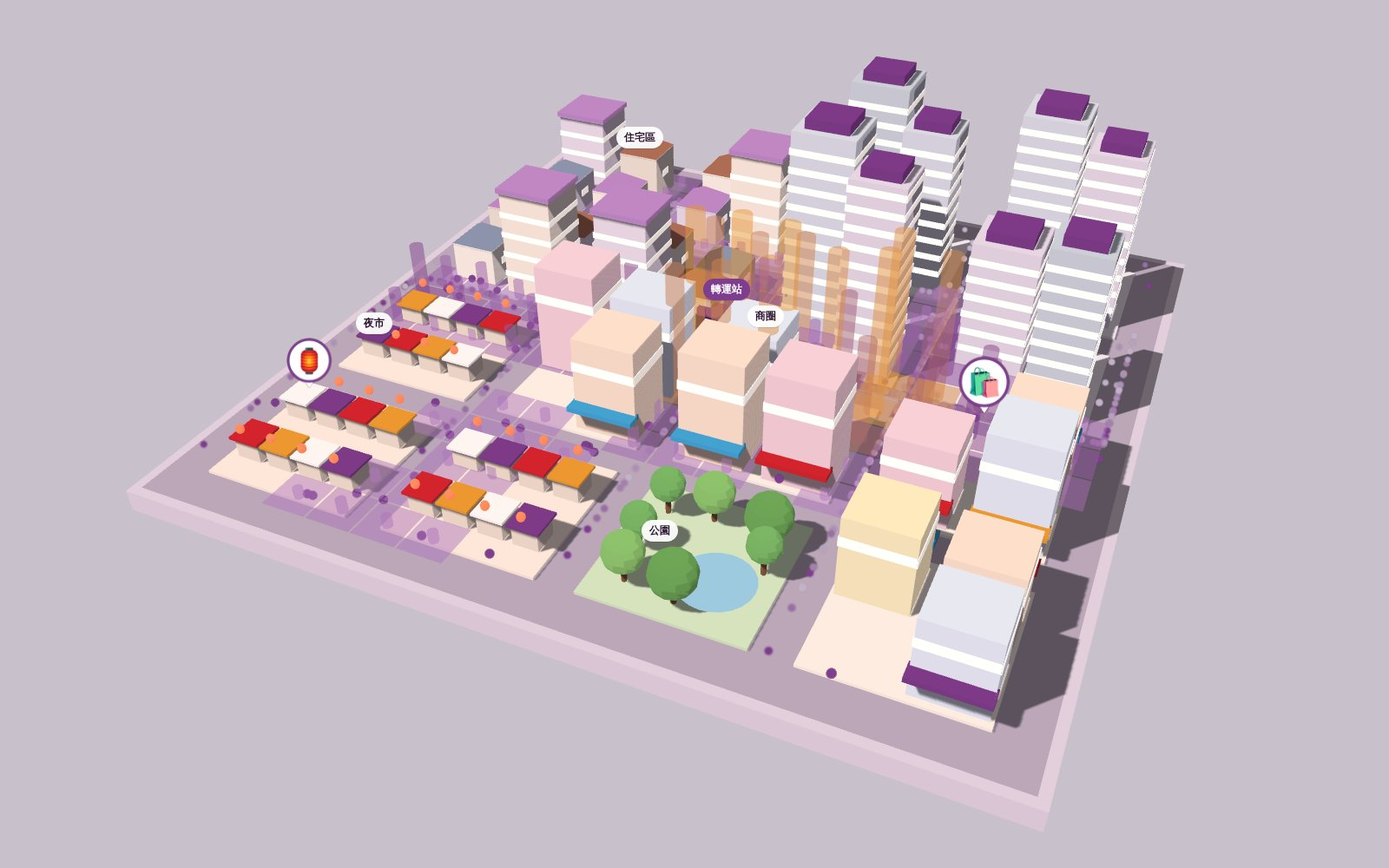
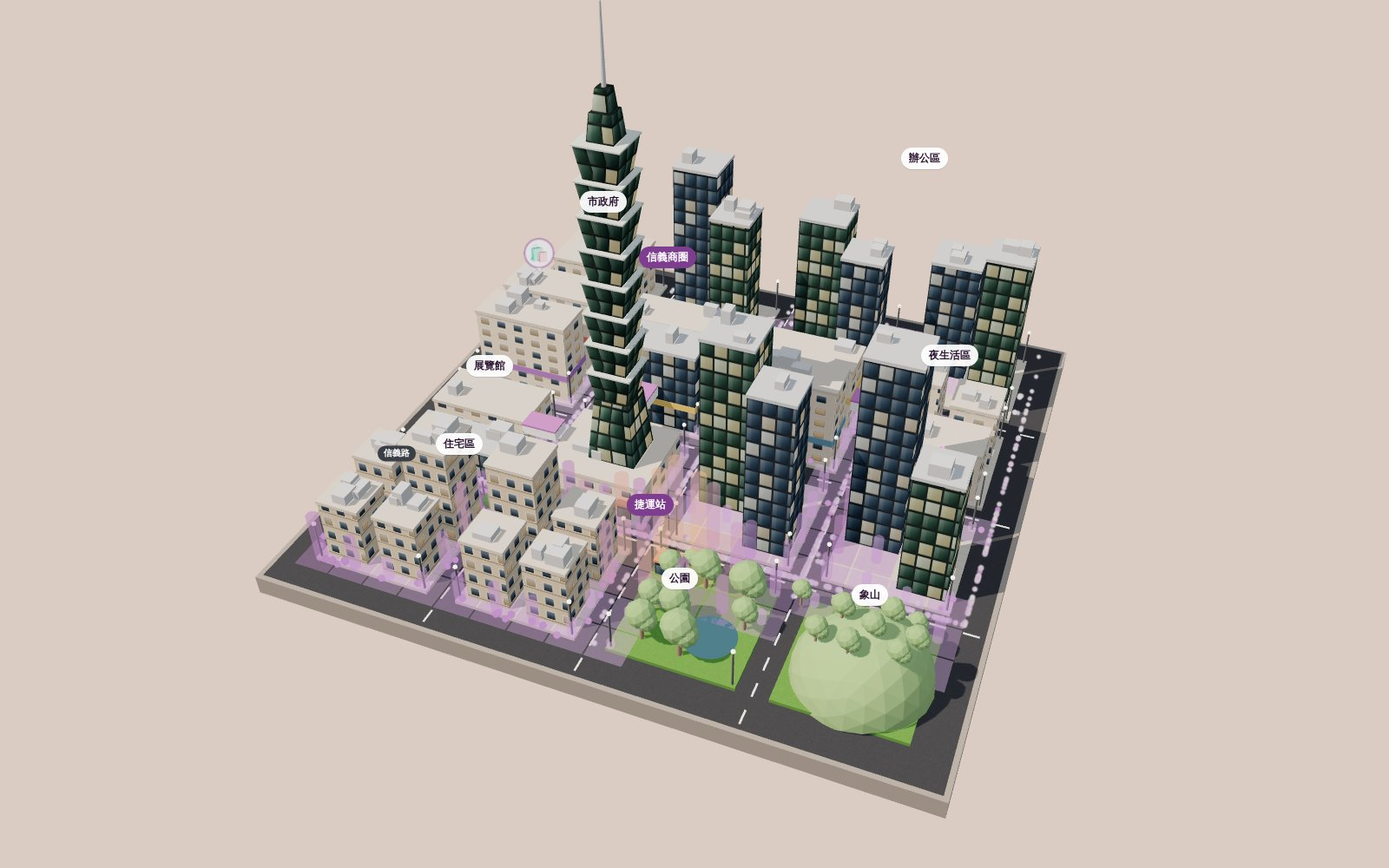
feat(ailocus): switch city demo to Xinyi illustrative version (#88)

diff --git a/ailocus-demo.html b/ailocus-demo.html
@@ -3,19 +3,19 @@
 <head>
 <meta charset="utf-8">
 <meta name="viewport" content="width=device-width, initial-scale=1, viewport-fit=cover">
-<title>AiLocus 位置大數據：城市的一天</title>
+<title>AiLocus 信義商圈的一天（示意圖）</title>
 <meta name="description" content="拖曳時間軸，看去識別化的人流如何在住宅區、辦公區、商圈與夜市之間移動；AiLocus 位置大數據的 3D 互動展示。">
 <link rel="canonical" href="https://iflocus.com/ailocus-demo.html">
-<meta property="og:title" content="AiLocus 位置大數據：城市的一天">
+<meta property="og:title" content="AiLocus 信義商圈的一天（示意圖）">
 <meta property="og:description" content="拖曳時間軸，看去識別化的人流如何在住宅區、辦公區、商圈與夜市之間移動；AiLocus 位置大數據的 3D 互動展示。">
 <meta property="og:image" content="https://iflocus.com/images/ailocus-demo-poster.jpg">
-<meta property="og:image:alt" content="AiLocus 城市人流 3D 互動展示：住宅區、辦公區、商圈與夜市的人流熱度">
+<meta property="og:image:alt" content="AiLocus 信義商圈 3D 互動示意圖：住宅區、辦公區、百貨街區與夜生活區的模擬人流">
 <meta property="og:url" content="https://iflocus.com/ailocus-demo.html">
 <meta property="og:type" content="website">
 <meta property="og:locale" content="zh_TW">
 <meta property="og:site_name" content="絡客思行銷科技">
 <meta name="twitter:card" content="summary_large_image">
-<meta name="twitter:title" content="AiLocus 位置大數據：城市的一天">
+<meta name="twitter:title" content="AiLocus 信義商圈的一天（示意圖）">
 <meta name="twitter:description" content="拖曳時間軸，看去識別化的人流如何在住宅區、辦公區、商圈與夜市之間移動；AiLocus 位置大數據的 3D 互動展示。">
 <meta name="twitter:image" content="https://iflocus.com/images/ailocus-demo-poster.jpg">
 <!-- Google tag (gtag.js) -->
@@ -94,7 +94,7 @@ body.embed #play{width:36px;height:36px}
 <div class="labels" id="labels"></div>
 <header class="top">
   <a class="btnlink back-btn" id="back" href="/ailocus.html" aria-label="返回 AiLocus 服務介紹">‹ 返回</a>
-  <div class="t"><h1>AiLocus 位置大數據：城市的一天</h1><p>時間 × 地點 × 人群，畫面為去識別化示意資料</p></div>
+  <div class="t"><h1>AiLocus 信義商圈的一天（示意圖）</h1><p>街區為風格化示意，人流為模擬資料，非真實統計</p></div>
   <div class="acts"><a class="btnlink" id="full" href="?" target="_top">全螢幕互動</a><button class="btnlink snd" id="sound" type="button" aria-pressed="false">開啟音效</button></div>
 </header>
 <div class="dock">
@@ -112,7 +112,7 @@ body.embed #play{width:36px;height:36px}
       <button class="chip" id="cHeat" type="button" aria-pressed="true">人流熱度</button>
       <button class="chip" id="cTrail" type="button" aria-pressed="true">移動軌跡</button>
       <button class="chip" id="cSeg" type="button" aria-pressed="false">受眾輪廓</button>
-      <span class="legend" id="legend"><span><i style="background:#7E3D8E"></i>上班族</span><span><i style="background:#1F8FFF"></i>學生</span><span><i style="background:#ED9E33"></i>家庭</span></span>
+      <span class="note">示意圖｜模擬資料，非真實統計</span><span class="legend" id="legend"><span><i style="background:#7E3D8E"></i>上班族</span><span><i style="background:#1F8FFF"></i>學生</span><span><i style="background:#ED9E33"></i>家庭</span></span>
     </div>
   </div>
 </div>
@@ -176,64 +176,116 @@ const toon=(c,o)=>new THREE.MeshToonMaterial(Object.assign({color:c,gradientMap:
 function mergeGeo(parts){const pos=[],nor=[];parts.forEach(([g,m])=>{const n=g.index?g.toNonIndexed():g.clone();n.applyMatrix4(m);n.computeVertexNormals();pos.push(...n.attributes.position.array);nor.push(...n.attributes.normal.array);});
   const b=new THREE.BufferGeometry();b.setAttribute('position',new THREE.Float32BufferAttribute(pos,3));b.setAttribute('normal',new THREE.Float32BufferAttribute(nor,3));return b;}
 
-const hemi=new THREE.HemisphereLight(0xfff6fb,0xd8c8df,0.55);scene.add(hemi);
-const sun=new THREE.DirectionalLight(0xfff4e8,0.6);sun.position.set(-14,26,16);sun.castShadow=true;sun.shadow.mapSize.set(1536,1536);
+const hemi=new THREE.HemisphereLight(0xdfeaf7,0x6b6258,0.6);scene.add(hemi);
+const sun=new THREE.DirectionalLight(0xfff1dc,1.2);sun.position.set(-16,24,12);sun.castShadow=true;sun.shadow.mapSize.set(2048,2048);sun.shadow.radius=3;
 Object.assign(sun.shadow.camera,{left:-17,right:17,top:17,bottom:-17,near:1,far:80});sun.shadow.bias=-0.0006;scene.add(sun);
 
-/* ---------- city ---------- */
-const buckets={};const winParts=[],lanternParts=[];
-const M4=(x,y,z,ry,sx,sy,sz)=>new THREE.Matrix4().compose(new THREE.Vector3(x,y,z),new THREE.Quaternion().setFromEuler(new THREE.Euler(0,ry||0,0)),new THREE.Vector3(sx||1,sy||1,sz||1));
-function add(geo,m,c){(buckets[c]=buckets[c]||[]).push([geo,m]);}
-const BOX=new THREE.BoxGeometry(1,1,1),ROOF=new THREE.ConeGeometry(0.72,0.6,4),SPH=new THREE.SphereGeometry(0.5,12,10),CYL=new THREE.CylinderGeometry(0.5,0.5,1,10);
-function box(w,h,d,x,y,z,c){add(BOX,M4(x,y+h/2,z,0,w,h,d),c);}
-const W=4.8;
-const ZMAP=[['res','res','off','off'],['res','res','off','off'],['nm','com','com','com'],['nm','nm','park','com']];
-const BC=[-9,-3,3,9];const blocks=[];
-const BASE={res:0xFBF7FC,off:0xF3F0F8,com:0xFFF7EE,nm:0xFFF1E6,park:0xD7EDC9};
-/* base slab & roads */
-const slab=new THREE.Mesh(new THREE.BoxGeometry(26,0.7,26),toon(0xE3D8E8));slab.position.y=-0.35;slab.receiveShadow=true;scene.add(slab);
-const road=new THREE.Mesh(new THREE.PlaneGeometry(25.4,25.4),toon(0xD6CADD));road.rotation.x=-Math.PI/2;road.position.y=0.005;road.receiveShadow=true;scene.add(road);
+/* ---------- realistic city ---------- */
+renderer.outputEncoding=THREE.sRGBEncoding;renderer.toneMapping=THREE.ACESFilmicToneMapping;renderer.toneMappingExposure=1.0;
+function cvs(w,h,draw,srgb){const c=document.createElement('canvas');c.width=w;c.height=h;draw(c.getContext('2d'),w,h);const t=new THREE.CanvasTexture(c);
+  t.wrapS=t.wrapT=THREE.RepeatWrapping;t.anisotropy=renderer.capabilities.getMaxAnisotropy?Math.min(8,renderer.capabilities.getMaxAnisotropy()):4;if(srgb!==false)t.encoding=THREE.sRGBEncoding;return t;}
+function grain(x,w,h,n,a){for(let i=0;i<n;i++){const v=Math.random();x.fillStyle=v>.5?`rgba(255,255,255,${a*Math.random()})`:`rgba(0,0,0,${a*Math.random()})`;x.fillRect(Math.random()*w,Math.random()*h,1+Math.random()*2.5,1+Math.random()*2.5);}}
+/* facade tile = cols x rows windows; returns colour map + night emissive map */
+function facade(kind){const cols=kind==='glass'||kind==='glass2'?4:kind==='res'?3:3,rows=kind==='res'?3:4;const W=256,H=256;const lit=[];
+  for(let i=0;i<cols*rows;i++)lit.push(Math.random()<(kind==='res'?0.55:0.42));
+  const map=cvs(W,H,(x)=>{
+    if(kind.startsWith('glass')){x.fillStyle=kind==='glass'?'#56616d':'#4d5d58';x.fillRect(0,0,W,H);
+      for(let r=0;r<rows;r++)for(let c=0;c<cols;c++){const px=c*W/cols+4,py=r*H/rows+5,pw=W/cols-8,ph=H/rows-10;
+        const g=x.createLinearGradient(px,py,px+pw,py+ph);g.addColorStop(0,kind==='glass'?'#a9c6dd':'#a8cfc4');g.addColorStop(0.55,kind==='glass'?'#5f7f9a':'#5c8579');g.addColorStop(1,kind==='glass'?'#3a5068':'#35574d');
+        x.fillStyle=g;x.fillRect(px,py,pw,ph);x.fillStyle='rgba(255,255,255,.12)';x.fillRect(px,py,pw*0.35,ph);}
+      x.fillStyle='rgba(0,0,0,.25)';for(let r=0;r<rows;r++)x.fillRect(0,r*H/rows,W,3);}
+    else{x.fillStyle=kind==='res'?'#d9cbb6':'#e8dccd';x.fillRect(0,0,W,H);grain(x,W,H,2200,0.08);
+      for(let r=0;r<rows;r++){for(let c=0;c<cols;c++){const pw=W/cols*0.5,ph=H/rows*0.52,px=c*W/cols+(W/cols-pw)/2,py=r*H/rows+H/rows*0.2;
+        x.fillStyle='#f4efe7';x.fillRect(px-4,py-4,pw+8,ph+8);const g=x.createLinearGradient(px,py,px,py+ph);g.addColorStop(0,'#7d93a6');g.addColorStop(1,'#2f3a45');x.fillStyle=g;x.fillRect(px,py,pw,ph);}
+        if(kind==='res'){x.fillStyle='rgba(90,80,70,.55)';x.fillRect(0,r*H/rows+H/rows*0.8,W,5);}}}
+  });
+  const em=cvs(W,H,(x)=>{x.fillStyle='#000';x.fillRect(0,0,W,H);let k=0;
+    for(let r=0;r<rows;r++)for(let c=0;c<cols;c++){const on=lit[k++];if(!on)continue;
+      if(kind.startsWith('glass')){x.fillStyle=Math.random()<.5?'#ffe2b0':'#fff4dc';x.fillRect(c*W/cols+4,r*H/rows+5,W/cols-8,H/rows-10);}
+      else{const pw=W/cols*0.5,ph=H/rows*0.52;x.fillStyle='#ffcf8a';x.fillRect(c*W/cols+(W/cols-pw)/2,r*H/rows+H/rows*0.2,pw,ph);}}});
+  return {map,em};}
+const FAC={glass:facade('glass'),glass2:facade('glass2'),res:facade('res'),com:facade('com')};
+const facMats={};Object.entries(FAC).forEach(([k,v])=>{facMats[k]=new THREE.MeshStandardMaterial({map:v.map,emissiveMap:v.em,emissive:new THREE.Color(0xffffff),emissiveIntensity:0,
+  roughness:k.startsWith('glass')?0.22:0.85,metalness:k.startsWith('glass')?0.55:0.05,envMapIntensity:1});});
+const TILE={glass:[2.2,2.6],glass2:[2.2,2.6],res:[2.0,2.1],com:[2.4,2.4]};
+function bgeo(w,h,d,x,y,z,kind){const g=new THREE.BoxGeometry(w,h,d);const uv=g.attributes.uv;const [tw,th]=TILE[kind];
+  for(let f=0;f<6;f++){const su=f===2||f===3?0.001:(f<2?d:w)/tw,sv=f===2||f===3?0.001:h/th;for(let v=f*4;v<f*4+4;v++)uv.setXY(v,uv.getX(v)*su,uv.getY(v)*sv);}
+  g.translate(x,y+h/2,z);return g;}
+function mergeUV(geos){const pos=[],nor=[],uvs=[];geos.forEach(g=>{const n=g.index?g.toNonIndexed():g;pos.push(...n.attributes.position.array);nor.push(...n.attributes.normal.array);
+  if(n.attributes.uv)uvs.push(...n.attributes.uv.array);else for(let i=0;i<n.attributes.position.count;i++)uvs.push(0,0);});
+  const b=new THREE.BufferGeometry();b.setAttribute('position',new THREE.Float32BufferAttribute(pos,3));b.setAttribute('normal',new THREE.Float32BufferAttribute(nor,3));b.setAttribute('uv',new THREE.Float32BufferAttribute(uvs,2));return b;}
+let TOWER_TOP=20;const facGeos={glass:[],glass2:[],res:[],com:[]};const plain={};const addPlain=(g,c)=>(plain[c]=plain[c]||[]).push(g);
+const pbox=(w,h,d,x,y,z,c)=>{const g=new THREE.BoxGeometry(w,h,d);g.translate(x,y+h/2,z);addPlain(g,c);};
+function building(w,h,d,x,z,kind,base){facGeos[kind].push(bgeo(w,h,d,x,base||0.15,z,kind));
+  pbox(w+0.08,0.14,d+0.08,x,(base||0.15)+h,z,kind.startsWith('glass')?0x8a9199:0xa79a8a);
+  const n=1+Math.floor(rnd()*3);for(let i=0;i<n;i++)pbox(0.3+rnd()*0.5,0.25+rnd()*0.35,0.3+rnd()*0.5,x+(rnd()-.5)*(w-0.8),(base||0.15)+h+0.14,z+(rnd()-.5)*(d-0.8),0x9aa0a6);}
+/* ground textures */
+const asphaltTex=cvs(512,512,(x,w,h)=>{x.fillStyle='#4a4d52';x.fillRect(0,0,w,h);grain(x,w,h,9000,0.12);});asphaltTex.repeat.set(10,10);
+const concreteTex=cvs(256,256,(x,w,h)=>{x.fillStyle='#c9c4bb';x.fillRect(0,0,w,h);grain(x,w,h,3000,0.08);x.strokeStyle='rgba(0,0,0,.12)';x.lineWidth=2;for(let i=0;i<=4;i++){x.beginPath();x.moveTo(i*64,0);x.lineTo(i*64,h);x.stroke();x.beginPath();x.moveTo(0,i*64);x.lineTo(w,i*64);x.stroke();}});concreteTex.repeat.set(3,3);
+const grassTex=cvs(256,256,(x,w,h)=>{x.fillStyle='#6d9a4f';x.fillRect(0,0,w,h);for(let i=0;i<6000;i++){x.fillStyle=`hsla(${85+Math.random()*25},${35+Math.random()*25}%,${30+Math.random()*25}%,.6)`;x.fillRect(Math.random()*w,Math.random()*h,1,2+Math.random()*3);}});grassTex.repeat.set(3,3);
+const slab=new THREE.Mesh(new THREE.BoxGeometry(26,0.8,26),new THREE.MeshStandardMaterial({color:0x5e5750,roughness:1}));slab.position.y=-0.4;slab.receiveShadow=true;scene.add(slab);
+const road=new THREE.Mesh(new THREE.PlaneGeometry(25.6,25.6),new THREE.MeshStandardMaterial({map:asphaltTex,roughness:0.95}));road.rotation.x=-Math.PI/2;road.position.y=0.005;road.receiveShadow=true;scene.add(road);
 const roadMat=road.material;
+const lineMat=new THREE.MeshStandardMaterial({color:0xf2efe6,roughness:0.8});const dash=[];
+[-6,0,6].forEach(c=>{for(let k=-12;k<12;k+=1.2){dash.push(Object.assign(new THREE.BoxGeometry(0.08,0.02,0.6).translate(c,0.02,k+0.3)));dash.push(new THREE.BoxGeometry(0.6,0.02,0.08).translate(k+0.3,0.02,c));}});
+scene.add(new THREE.Mesh(mergeUV(dash),lineMat));
+const W=4.8;
+/* stylised Xinyi district (illustrative, not to scale) */
+const ZMAP=[['civ','off','off','off'],['com','com','com','nm'],['exh','t101','off','off'],['res','res','park','hill']];
+const BC=[-9,-3,3,9];const blocks=[];
+const walkMat=new THREE.MeshStandardMaterial({map:concreteTex,roughness:0.9});const grassMat=new THREE.MeshStandardMaterial({map:grassTex,roughness:1});
+const lampGeos=[],trunkGeos=[],leafGeos=[],stallGeos={},lanternGeos=[];
+function tree(x,z,s3,y0){trunkGeos.push(new THREE.CylinderGeometry(0.06*s3,0.09*s3,0.9*s3,6).translate(x,(y0||0.15)+0.45*s3,z));
+  [[0,1.05,0,.55],[.25,.9,.1,.4],[-.22,.95,-.1,.42]].forEach(([a,b2,c2,rr])=>leafGeos.push(new THREE.IcosahedronGeometry(rr*s3,1).translate(x+a*s3,(y0||0.15)+b2*s3+0.2,z+c2*s3)));}
+function frustumGeo(rt,rb,h,y,cx,cz,kind){const g=new THREE.CylinderGeometry(rt,rb,h,4,1);g.rotateY(Math.PI/4);const uv=g.attributes.uv;const [tw,th]=TILE[kind];
+  const side=(rt+rb)/2*1.414;const n=uv.count;const sideVerts=(4+1)*2;for(let i=0;i<n;i++){if(i<sideVerts)uv.setXY(i,uv.getX(i)*4*side/tw,uv.getY(i)*h/th);else uv.setXY(i,0,0);}
+  g.translate(cx,y+h/2,cz);return g;}
+function tower101(cx,cz,base){let y=base;facGeos.glass2.push(frustumGeo(1.02,1.4,2.8,y,cx,cz,'glass2'));y+=2.8;
+  for(let i=0;i<8;i++){facGeos.glass2.push(frustumGeo(1.22,0.92,1.3,y,cx,cz,'glass2'));pbox(1.8,0.06,1.8,cx,y+1.27,cz,0x9aa6a0);y+=1.33;}
+  facGeos.glass2.push(frustumGeo(0.58,0.72,1.0,y,cx,cz,'glass2'));y+=1.0;facGeos.glass2.push(frustumGeo(0.34,0.46,0.8,y,cx,cz,'glass2'));y+=0.8;
+  const sp=new THREE.CylinderGeometry(0.035,0.09,2.8,8);sp.translate(cx,y+1.4,cz);addPlain(sp,0x8f9aa3);return y+2.8;}
 for(let r=0;r<4;r++)for(let c=0;c<4;c++){
   const type=ZMAP[r][c],x=BC[c],z=BC[r];blocks.push({type,x,z});
-  box(W,0.1,W,x,0,z,BASE[type]);
-  if(type==='res'){
-    [[-1.2,-1.2],[1.2,-1.2],[-1.2,1.2],[1.2,1.2]].forEach(([dx,dz],i)=>{
-      if((r+c+i)%4===0){const h=3+rnd()*1.2;box(1.9,h,1.9,x+dx,0.1,z+dz,[0xF1E6F4,0xFFF4E8][i%2]);
-        for(let k=0.8;k<h-0.2;k+=0.75)winParts.push([BOX,M4(x+dx,0.1+k,z+dz,0,1.96,0.2,1.96)]);
-        box(2.05,0.18,2.05,x+dx,0.1+h,z+dz,0xC18DCE);}
-      else{const h=1.1+rnd()*0.8;box(1.6,h,1.6,x+dx,0.1,z+dz,[0xFFF8F0,0xF4E9DD,0xEDE3F2][(i+r)%3]);
-        add(ROOF,M4(x+dx,0.1+h+0.3,z+dz,Math.PI/4,1.6,1,1.6),[0xC18DCE,0xB0725A,0x8E9BB5][(i+c)%3]);
-        winParts.push([BOX,M4(x+dx,0.1+h*0.55,z+dz,0,1.66,0.26,0.5)]);}
-    });
-  }else if(type==='off'){
-    [[-1.1,-0.9,2.1],[1.2,1.0,1.8]].forEach(([dx,dz,s],i)=>{const h=4+rnd()*3.2;
-      box(s,h,s,x+dx,0.1,z+dz,[0xDDE3EE,0xE8E0F0,0xCFD8E3][(r+c+i)%3]);
-      for(let k=0.7;k<h-0.3;k+=0.62)winParts.push([BOX,M4(x+dx,0.1+k,z+dz,0,s+0.06,0.22,s+0.06)]);
-      box(s*0.7,0.35,s*0.7,x+dx,0.1+h,z+dz,0x7E3D8E);});
-  }else if(type==='com'){
-    [[-1.3,-1.2],[1.3,-1.2],[-1.3,1.25],[1.3,1.25]].forEach(([dx,dz],i)=>{if((r*3+c+i)%5===4)return;const h=2+rnd()*1.8;
-      box(2,h,1.9,x+dx,0.1,z+dz,[0xFFE9D6,0xF9D9E3,0xE9F2FF,0xFFF4C9][(i+c)%4]);
-      box(2.1,0.16,0.55,x+dx,0.95,z+dz+(dz>0?1.1:-1.1),[0xED9E33,0x7E3D8E,0x44A9DE,0xD4252F][(i+r+c)%4]);
-      winParts.push([BOX,M4(x+dx,0.1+h*0.7,z+dz,0,2.05,0.3,1.95)]);});
-  }else if(type==='nm'){
-    for(let row=-1;row<=1;row+=2)for(let k=0;k<4;k++){const sx=x-1.65+k*1.1,sz=z+row*1.1;
-      box(0.8,0.55,0.8,sx,0.1,sz,0xF4E6D6);box(1.0,0.08,1.0,sx,0.75,sz,[0xD4252F,0xED9E33,0xFFFFFF,0x7E3D8E][(k+row+r)%4]);
-      lanternParts.push([SPH,M4(sx,1.25,sz+row*0.45,0,0.26,0.3,0.26)]);}
-  }else if(type==='park'){
-    const pond=new THREE.Mesh(new THREE.CircleGeometry(1.1,24),toon(0x9FD3EE));pond.rotation.x=-Math.PI/2;pond.position.set(x+0.8,0.12,z+0.6);scene.add(pond);
-    [[-1.5,-1.4],[-0.2,-1.6],[1.5,-1.3],[-1.6,0.2],[-1.4,1.5],[0.1,1.7],[1.8,-0.2]].forEach(([dx,dz],i)=>{
-      add(CYL,M4(x+dx,0.45,z+dz,0,0.16,0.7,0.16),0x8a6040);add(SPH,M4(x+dx,1.1,z+dz,0,1+(i%3)*0.18,1+(i%3)*0.18,1+(i%3)*0.18),[0x7cbf6a,0x8fcc72,0x6fae5c][i%3]);});
-  }
+  const base=new THREE.Mesh(new THREE.BoxGeometry(W,0.15,W),type==='park'||type==='hill'?grassMat:walkMat);base.position.set(x,0.075,z);base.receiveShadow=true;scene.add(base);
+  if(type!=='hill')[[-1,-1],[1,-1],[-1,1],[1,1]].forEach(([sx,sz])=>{lampGeos.push(new THREE.CylinderGeometry(0.035,0.045,1.6,6).translate(x+sx*2.25,0.95,z+sz*2.25));});
+  if(type==='res'){[[-1.2,-1.2],[1.2,-1.2],[-1.2,1.2],[1.2,1.2]].forEach(([dx,dz],i)=>{const tall=(r+c+i)%4===0;building(tall?1.9:1.7,tall?3.6+rnd()*1.2:1.9+rnd()*1,tall?1.9:1.7,x+dx,z+dz,'res');});}
+  else if(type==='off'){[[-1.1,-0.9,2.1],[1.2,1.0,1.8]].forEach(([dx,dz,s2],i)=>building(s2,5+rnd()*3.5,s2,x+dx,z+dz,(r+c+i)%2?'glass':'glass2'));}
+  else if(type==='com'){building(4.2,3+rnd()*1.4,1.9,x,z-1.25,'com');pbox(4.26,0.35,1.96,x,1.6,z-1.25,[0xB5462F,0x2F5D7C,0xC9892E][c%3]);
+    building(4.2,2.6+rnd()*1.2,1.8,x,z+1.3,c%2?'glass':'com');pbox(4.26,0.3,1.86,x,1.2,z+1.3,[0x6B3E8E,0xC9892E,0x2F5D7C][c%3]);}
+  else if(type==='nm'){[[-1.2,-1.1,3.4],[1.2,-1.1,2.6],[0,1.2,2.2]].forEach(([dx,dz,h],i)=>{building(i===2?4:1.9,h,1.9,x+dx,z+dz,'com');
+      for(let k=0;k<2;k++)lanternGeos.push(new THREE.BoxGeometry(0.1,1.1,0.06).translate(x+dx-0.5+k*1.0,1.1+0.5*i,z+dz+0.98));});}
+  else if(type==='civ'){building(3.9,2.6,3.2,x,z-0.3,'com');building(1.3,3.8,1.3,x,z-0.3,'com');pbox(4.4,0.08,1.2,x,0.15,z+1.8,0xd8d2c8);}
+  else if(type==='exh'){building(4.3,1.6,2.3,x,z-1.05,'com');pbox(4.36,0.12,2.36,x,1.75,z-1.05,0xf1f1ee);building(4.3,1.3,1.6,x,z+1.35,'glass');}
+  else if(type==='t101'){building(4.3,1.25,3.8,x,z-0.1,'com');pbox(4.36,0.12,3.86,x,1.4,z-0.1,0xe4ded4);TOWER_TOP=tower101(x+0.35,z-0.2,1.52);}
+  else if(type==='park'){const pond=new THREE.Mesh(new THREE.CircleGeometry(1.0,32),new THREE.MeshStandardMaterial({color:0x2e6f93,roughness:0.08,metalness:0.6}));pond.rotation.x=-Math.PI/2;pond.position.set(x+0.8,0.16,z+0.6);scene.add(pond);
+    [[-1.5,-1.4],[-0.2,-1.6],[1.5,-1.3],[-1.6,0.2],[-1.4,1.5],[0.1,1.7],[1.8,-0.2],[-0.6,0.4]].forEach(([dx,dz],i)=>tree(x+dx,z+dz,0.8+(i%3)*0.18));}
+  else if(type==='hill'){const hg=new THREE.IcosahedronGeometry(1,3);const hp=hg.attributes.position;for(let i=0;i<hp.count;i++){const vy=hp.getY(i);hp.setY(i,Math.max(-0.05,vy)+Math.sin(hp.getX(i)*3)*0.08);}
+    hg.computeVertexNormals();hg.scale(2.5,2.4,2.4);hg.translate(x+0.2,0.1,z+0.3);const hill=new THREE.Mesh(hg,new THREE.MeshStandardMaterial({color:0x557f3e,roughness:1,flatShading:true}));hill.castShadow=true;hill.receiveShadow=true;scene.add(hill);
+    [[-1,-.6],[.6,-1],[1.2,.6],[-.4,.9],[.2,.1],[-1.6,.4],[1.6,-.4]].forEach(([dx,dz],i)=>{const hy=0.1+2.4*Math.sqrt(Math.max(0,1-(dx*dx+dz*dz)/5.8))*0.9;tree(x+0.2+dx,z+0.3+dz,0.7,hy-0.2);});}
 }
-/* transit hub */
-box(2.6,1.1,2.6,0,0,0,0xFFFFFF);box(2.8,0.2,2.8,0,1.1,0,0x7E3D8E);box(2.62,0.2,2.62,0,0.55,0,0xC18DCE);
-Object.entries(buckets).forEach(([c,parts])=>{const m=new THREE.Mesh(mergeGeo(parts),toon(+c));m.castShadow=true;m.receiveShadow=true;scene.add(m);});
-const winMat=toon(0xD9E2F4,{emissive:new THREE.Color(0xFFD27A),emissiveIntensity:0});
-const winMesh=new THREE.Mesh(mergeGeo(winParts),winMat);scene.add(winMesh);
-const lanMat=toon(0xE8483F,{emissive:new THREE.Color(0xFF7A3D),emissiveIntensity:0});
-scene.add(new THREE.Mesh(mergeGeo(lanternParts),lanMat));
-
+/* sky bridges (Xinyi's elevated walkway network) */
+[[-6,1.75,-3.6,1.5,0.45,0.9],[0,1.75,-3.6,1.5,0.45,0.9],[-3,1.75,0,0.9,0.45,1.5],[-6,1.6,3,1.5,0.4,0.9],[6,1.75,-3.2,1.5,0.45,0.9]].forEach(([x,y,z,w,h,d])=>{pbox(w,h,d,x,y,z,0xdfe2e5);pbox(w+0.02,0.08,d+0.02,x,y+h,z,0x7E3D8E);});
+/* trees along Xinyi Road */
+for(let k=-10.5;k<=10.5;k+=2.1)if(Math.abs(k)>1.2)tree(k,6.95,0.62);
+/* MRT entrances on Xinyi Road */
+facGeos.glass.push(bgeo(1.0,0.75,0.6,1.3,0.02,7.15,'glass'));pbox(1.1,0.1,0.7,1.3,0.77,7.15,0xB5462F);
+facGeos.glass.push(bgeo(1.0,0.75,0.6,-1.3,0.02,4.85,'glass'));pbox(1.1,0.1,0.7,-1.3,0.77,4.85,0xB5462F);
+Object.entries(facGeos).forEach(([k,gs])=>{if(!gs.length)return;const m=new THREE.Mesh(mergeUV(gs),facMats[k]);m.castShadow=true;m.receiveShadow=true;scene.add(m);});
+Object.entries(plain).forEach(([c,gs])=>{const m=new THREE.Mesh(mergeUV(gs),new THREE.MeshStandardMaterial({color:+c,roughness:0.85}));m.castShadow=true;m.receiveShadow=true;scene.add(m);});
+Object.entries(stallGeos).forEach(([c,gs])=>{const m=new THREE.Mesh(mergeUV(gs),new THREE.MeshStandardMaterial({color:+c,roughness:0.7}));m.castShadow=true;scene.add(m);});
+const trunkM=new THREE.Mesh(mergeUV(trunkGeos),new THREE.MeshStandardMaterial({color:0x5b4331,roughness:1}));trunkM.castShadow=true;scene.add(trunkM);
+const leafM=new THREE.Mesh(mergeUV(leafGeos),new THREE.MeshStandardMaterial({color:0x4f7d3a,roughness:1,flatShading:true}));leafM.castShadow=true;leafM.receiveShadow=true;scene.add(leafM);
+scene.add(new THREE.Mesh(mergeUV(lampGeos),new THREE.MeshStandardMaterial({color:0x3c4148,roughness:0.6,metalness:0.4})));
+const bulbGeos=lampGeos.map((g,i)=>{g.computeBoundingBox();const bb=g.boundingBox;return new THREE.SphereGeometry(0.09,8,6).translate((bb.min.x+bb.max.x)/2,bb.max.y+0.04,(bb.min.z+bb.max.z)/2);});
+const lampMat=new THREE.MeshStandardMaterial({color:0xfff2d0,emissive:new THREE.Color(0xffd08a),emissiveIntensity:0});scene.add(new THREE.Mesh(mergeUV(bulbGeos),lampMat));
+const lanMat=new THREE.MeshStandardMaterial({color:0xd94fa0,emissive:new THREE.Color(0xff4fc0),emissiveIntensity:0.3});scene.add(new THREE.Mesh(mergeUV(lanternGeos),lanMat));
+/* sky dome */
+const skyU={top:{value:new THREE.Color(0x5f9fd6)},bot:{value:new THREE.Color(0xe9eef3)}};
+const sky=new THREE.Mesh(new THREE.SphereGeometry(160,32,16),new THREE.ShaderMaterial({uniforms:skyU,side:THREE.BackSide,depthWrite:false,fog:false,
+  vertexShader:'varying vec3 vP;void main(){vP=(modelMatrix*vec4(position,1.0)).xyz;gl_Position=projectionMatrix*viewMatrix*vec4(vP,1.0);}',
+  fragmentShader:'uniform vec3 top;uniform vec3 bot;varying vec3 vP;void main(){float h=clamp(normalize(vP).y*1.6+0.15,0.0,1.0);gl_FragColor=vec4(mix(bot,top,h),1.0);}'}));
+sky.renderOrder=-1;sky.frustumCulled=false;scene.add(sky);scene.background=new THREE.Color(0xe9eef3);scene.fog=new THREE.Fog(0xe9eef3,60,150);
+const SKY={dt:new THREE.Color(0x5f9fd6),db:new THREE.Color(0xe9eef3),nt:new THREE.Color(0x0a1024),nb:new THREE.Color(0x2b2342),st:new THREE.Color(0xf29a5c),sb:new THREE.Color(0xf6d2b0)};
 /* ---------- agents & schedules ---------- */
 const ROADS=[-12,-6,0,6,12];
 const nearestRoad=v=>ROADS.reduce((a,b)=>Math.abs(b-v)<Math.abs(a-v)?b:a);
@@ -241,7 +293,7 @@ function pointIn(type){const bs=blocks.filter(b=>b.type===type);const b=bs[Math.
   const side=Math.floor(rnd()*4),t=rnd()*4.2-2.1;const e=2.55;
   return side===0?{x:b.x+t,z:b.z-e}:side===1?{x:b.x+t,z:b.z+e}:side===2?{x:b.x-e,z:b.z+t}:{x:b.x+e,z:b.z+t};}
 function route(A,B){const ra=nearestRoad(A.x),rb=nearestRoad(B.x);
-  const pts=[A,{x:ra,z:A.z},{x:ra,z:0},{x:0,z:0},{x:rb,z:0},{x:rb,z:B.z},B];
+  const pts=[A,{x:ra,z:A.z},{x:ra,z:6},{x:0,z:6},{x:rb,z:6},{x:rb,z:B.z},B];
   const out=[pts[0]];for(let i=1;i<pts.length;i++){const p=pts[i],q=out[out.length-1];if(Math.hypot(p.x-q.x,p.z-q.z)>0.01)out.push(p);}
   const L=[0];for(let i=1;i<out.length;i++)L.push(L[i-1]+Math.hypot(out[i].x-out[i-1].x,out[i].z-out[i-1].z));return {pts:out,L};}
 const SEGCOL=[new THREE.Color(0x7E3D8E),new THREE.Color(0x1F8FFF),new THREE.Color(0xED9E33)];
@@ -275,9 +327,9 @@ const points=new THREE.Points(pGeo,pMat);points.frustumCulled=false;scene.add(po
 
 /* heat */
 const G=16,CS=1.5;const heat=new Float32Array(G*G),heatT=new Float32Array(G*G),cnt=new Float32Array(G*G);
-const pillarMat=new THREE.MeshBasicMaterial({color:0xffffff,transparent:true,opacity:0.5,depthWrite:false});
+const pillarMat=new THREE.MeshBasicMaterial({color:0xffffff,transparent:true,opacity:0.55,depthWrite:false,toneMapped:false});
 const pillars=new THREE.InstancedMesh(new THREE.CylinderGeometry(0.4,0.4,1,14),pillarMat,G*G);scene.add(pillars);
-const tileMat=new THREE.MeshBasicMaterial({color:0xffffff,transparent:true,opacity:0.5,depthWrite:false});
+const tileMat=new THREE.MeshBasicMaterial({color:0xffffff,transparent:true,opacity:0.45,depthWrite:false,toneMapped:false});
 const tileGeo=new THREE.PlaneGeometry(CS*0.96,CS*0.96);tileGeo.rotateX(-Math.PI/2);
 const tiles=new THREE.InstancedMesh(tileGeo,tileMat,G*G);scene.add(tiles);
 const dummy=new THREE.Object3D(),tc=new THREE.Color();
@@ -287,22 +339,22 @@ for(let i=0;i<G*G;i++){dummy.scale.setScalar(0);dummy.updateMatrix();pillars.set
 
 /* zone cells for sound events */
 const ZONES=['res','off','com','nm','park'];const zoneCells=ZONES.map(()=>[]);
-for(let i=0;i<G*G;i++){const x=-12+(i%G+0.5)*CS,z=-12+(Math.floor(i/G)+0.5)*CS;const b=blocks.find(b=>Math.abs(b.x-x)<2.4&&Math.abs(b.z-z)<2.4);if(b)zoneCells[ZONES.indexOf(b.type)].push(i);}
+for(let i=0;i<G*G;i++){const x=-12+(i%G+0.5)*CS,z=-12+(Math.floor(i/G)+0.5)*CS;const b=blocks.find(b=>Math.abs(b.x-x)<2.4&&Math.abs(b.z-z)<2.4);if(b&&ZONES.indexOf(b.type)>=0)zoneCells[ZONES.indexOf(b.type)].push(i);}
 const zoneHot=ZONES.map(()=>false);let prevHour=null;
 /* interest pins (learned data) */
 function emojiTex(e){const c=document.createElement('canvas');c.width=c.height=128;const x=c.getContext('2d');x.fillStyle='#fff';x.beginPath();x.arc(64,58,50,0,Math.PI*2);x.fill();
   x.beginPath();x.moveTo(48,100);x.lineTo(64,124);x.lineTo(80,100);x.fill();x.lineWidth=6;x.strokeStyle='#7E3D8E';x.beginPath();x.arc(64,58,50,0,Math.PI*2);x.stroke();
   x.font='58px "Apple Color Emoji","Segoe UI Emoji","Noto Color Emoji",sans-serif';x.textAlign='center';x.textBaseline='middle';x.fillText(e,64,62);return new THREE.CanvasTexture(c);}
-const pins=[['☕',3,5,3,7.2,9.6],['🍜',-3,5,3,11.4,13.8],['🛍',9,5,5,17.8,21.6],['🏮',-9,3.2,9,18.2,23.2],['🌳',3,3.6,9,15.2,17.8]].map(([e,x,y,z,a,b])=>{
+const pins=[['☕',-3,5.6,-3,7.2,9.6],['🍜',3,5.6,-3,11.4,13.8],['🛍',-9,5.8,-3,17.8,21.6],['🍸',9,5.4,-3,19,23.4],['🌳',3,3.4,9,15.2,17.8]].map(([e,x,y,z,a,b])=>{
   const s=new THREE.Sprite(new THREE.SpriteMaterial({map:emojiTex(e),transparent:true,depthWrite:false}));s.position.set(x,y,z);s.scale.setScalar(0);scene.add(s);return {s,a,b,y,k:0};});
 
 /* labels */
 const labelsEl=document.getElementById('labels');
-const ZL=[['住宅區',-6,3.8,-6],['辦公區',6,10.8,-6],['商圈',7.5,4.6,3],['夜市',-9,2.2,6.2],['公園',3,2.4,11.2],['轉運站',0,2.2,0,'hub']].map(([t,x,y,z,c])=>{
+const ZL=[['信義商圈',-3,6.4,-3,'hub'],['辦公區',6,9.8,-9],['住宅區',-6,4.8,9],['夜生活區',9,4.6,-3],['公園',3,2.8,10.4],['象山',9.2,3.4,9.3,'minor'],['市政府',-9,4.6,-9.3,'minor'],['展覽館',-9,2.6,2,'minor'],['捷運站',0,1.3,6,'hub'],['信義路',-11.3,0.5,6,'road minor']].map(([t,x,y,z,c])=>{
   const d=document.createElement('div');d.className='tag'+(c?' '+c:'');d.textContent=t;labelsEl.appendChild(d);return {d,v:new THREE.Vector3(x,y,z)};});
 const V=new THREE.Vector3();
 function placeTags(){const w=innerWidth,h=innerHeight;const boxes=[];
-  ZL.forEach(l=>{V.copy(l.v).project(camera);const ok=V.z<1&&Math.abs(V.x)<1.05&&V.y<0.95&&V.y>-0.55;
+  ZL.forEach(l=>{V.copy(l.v).project(camera);const ok=V.z<1&&Math.abs(V.x)<1.05&&V.y<0.95&&V.y>-0.55&&!(w<560&&l.d.classList.contains('minor'));
     let x=(V.x+1)/2*w,y=(1-V.y)/2*h;const bw=l.d.offsetWidth||44,bh=l.d.offsetHeight||22;
     for(let k=0;k<4;k++){const hit=boxes.find(b=>Math.abs(b.x-x)<(b.w+bw)/2+4&&Math.abs(b.y-y)<(b.h+bh)/2+2);if(!hit)break;y=hit.y-(hit.h+bh)/2-3;}
     if(ok)boxes.push({x,y,w:bw,h:bh});l.d.style.opacity=ok?1:0;l.d.style.left=x+'px';l.d.style.top=y+'px';});}
@@ -310,7 +362,7 @@ function placeTags(){const w=innerWidth,h=innerHeight;const boxes=[];
 /* ---------- UI ---------- */
 const slider=document.getElementById('slider'),clock=document.getElementById('clock'),cap=document.getElementById('caption'),playBtn=document.getElementById('play');
 let hour=8,playing=true,show={heat:true,trail:true,seg:false},scrubTracked=false;
-const CAPS=[[6,'深夜，人流集中在住宅區'],[7.3,'清晨，住宅區開始活動'],[9.4,'早上通勤，人流經轉運站移向辦公區'],[11.4,'上午，辦公區熱度升高'],[13.6,'午餐時段，辦公人流湧入商圈'],[17.6,'下午，辦公區維持熱度，家庭客走向公園'],[19.4,'下班時段，人流分流到商圈、夜市與住宅區'],[22.4,'夜間，商圈與夜市成為熱點'],[24.01,'深夜，人流回到住宅區']];
+const CAPS=[[6,'深夜，人流集中在住宅區'],[7.3,'清晨，住宅區開始活動'],[9.4,'早上通勤，人流經捷運站移向辦公區'],[11.4,'上午，辦公區熱度升高'],[13.6,'午餐時段，辦公人流湧入百貨商圈'],[17.6,'下午，辦公區維持熱度，家庭客走向公園'],[19.4,'下班時段，人流分流到百貨商圈、夜生活區與住宅區'],[22.4,'夜間，百貨商圈與夜生活區成為熱點'],[24.01,'深夜，人流回到住宅區']];
 let lastCap='';
 function setPlay(p){playing=p;playBtn.textContent=p?'❚❚':'▶';playBtn.setAttribute('aria-label',p?'暫停':'播放');}
 playBtn.addEventListener('click',()=>{sfx.click();setPlay(!playing);if(playing)track('ailocus_demo_play');});
@@ -335,8 +387,8 @@ function resize(){const w=innerWidth,h=innerHeight;renderer.setSize(w,h,false);c
   const panelH=(document.querySelector('.dock')||{}).offsetHeight||0,topH=(document.querySelector('.top')||{}).offsetHeight||0;
   const freeH=Math.max(120,h-panelH-topH);camera.setViewOffset(w,h,0,(panelH-topH)/2,w,h);camera.updateProjectionMatrix();
   const tv=Math.tan(camera.fov*Math.PI/360),th=tv*w/h;
-  const dW=30/(2*th),dH=19/(2*tv*freeH/h);
-  if(performance.now()-lastInteract>1e6){radius=Math.min(80,Math.max(20,Math.max(dW,dH)));target.set(0,-0.5,2);}}
+  const dW=30/(2*th),dH=27/(2*tv*freeH/h);
+  if(performance.now()-lastInteract>1e6){radius=Math.min(80,Math.max(20,Math.max(dW,dH)));target.set(0,3.8,1.5);}}
 addEventListener('resize',resize);resize();setTimeout(resize,600);if(document.fonts)document.fonts.ready.then(resize);
 
 /* ---------- loop ---------- */
@@ -354,9 +406,12 @@ function frame(now){
 
   /* day / night */
   const day=ss(5.2,7.2,hour)-ss(17.8,19.6,hour);const night=1-day;
-  bgNow.copy(DAY_BG).lerp(NIGHT_BG,night*0.85);scene.background.copy(bgNow);scene.fog.color.copy(bgNow);
-  hemi.intensity=0.3+0.25*day;sun.intensity=0.2+0.42*day;roadMat.color.copy(roadDay).lerp(roadNight,night*0.7);
-  winMat.emissiveIntensity=night*0.9;lanMat.emissiveIntensity=0.3+night*1.2;
+  const dusk=Math.max(0,1-Math.abs(hour-18.6)/1.3)+Math.max(0,1-Math.abs(hour-6.3)/1.1);
+  skyU.top.value.copy(SKY.dt).lerp(SKY.nt,night).lerp(SKY.st,dusk*0.35);skyU.bot.value.copy(SKY.db).lerp(SKY.nb,night).lerp(SKY.sb,dusk*0.55);
+  scene.fog.color.copy(skyU.bot.value);bgNow.copy(skyU.bot.value);scene.background.copy(skyU.bot.value);
+  hemi.intensity=0.18+0.5*day;sun.intensity=0.08+1.15*day;sun.color.setHex(0xfff1dc).lerp(SKY.st,dusk*0.6);
+  Object.values(facMats).forEach(m=>m.emissiveIntensity=night*1.4);lampMat.emissiveIntensity=night*6;lanMat.emissiveIntensity=0.3+night*2;
+  renderer.toneMappingExposure=0.82+0.12*day;
 
   /* agents */
   cnt.fill(0);const bgc=bgNow;

diff --git a/ailocus.html b/ailocus.html
@@ -40,10 +40,10 @@
 <!-- 城市的一天 3D 互動展示 -->
 <section>
   <div class="section-inner">
-    <h2 class="section-title"><span class="omo-title-seg">時間 × 地點 × 人群，</span><span class="omo-title-seg">看見城市的一天</span></h2>
-    <p class="section-subtitle omo-demo-subtitle">拖曳時間軸，看人流如何在住宅區、辦公區、商圈與夜市之間移動，三個開關對應 AiLocus 的三大數據維度。畫面為去識別化示意資料。</p>
+    <h2 class="section-title"><span class="omo-title-seg">時間 × 地點 × 人群，</span><span class="omo-title-seg">看見信義商圈的一天</span></h2>
+    <p class="section-subtitle omo-demo-subtitle">拖曳時間軸，看人流如何在住宅區、辦公區、百貨街區與夜生活區之間移動，三個開關對應 AiLocus 的三大數據維度。畫面為示意圖，人流為模擬資料，非真實統計。</p>
     <div class="omo-demo-frame ailocus-demo-frame">
-      <iframe src="/ailocus-demo.html?embed=1" loading="lazy" title="AiLocus 城市人流 3D 互動展示"></iframe>
+      <iframe src="/ailocus-demo.html?embed=1" loading="lazy" title="AiLocus 信義商圈 3D 互動示意圖"></iframe>
     </div>
     <div class="flex-center omo-demo-cta">
       <a href="/ailocus-demo.html" class="btn btn-primary">全螢幕互動</a>
